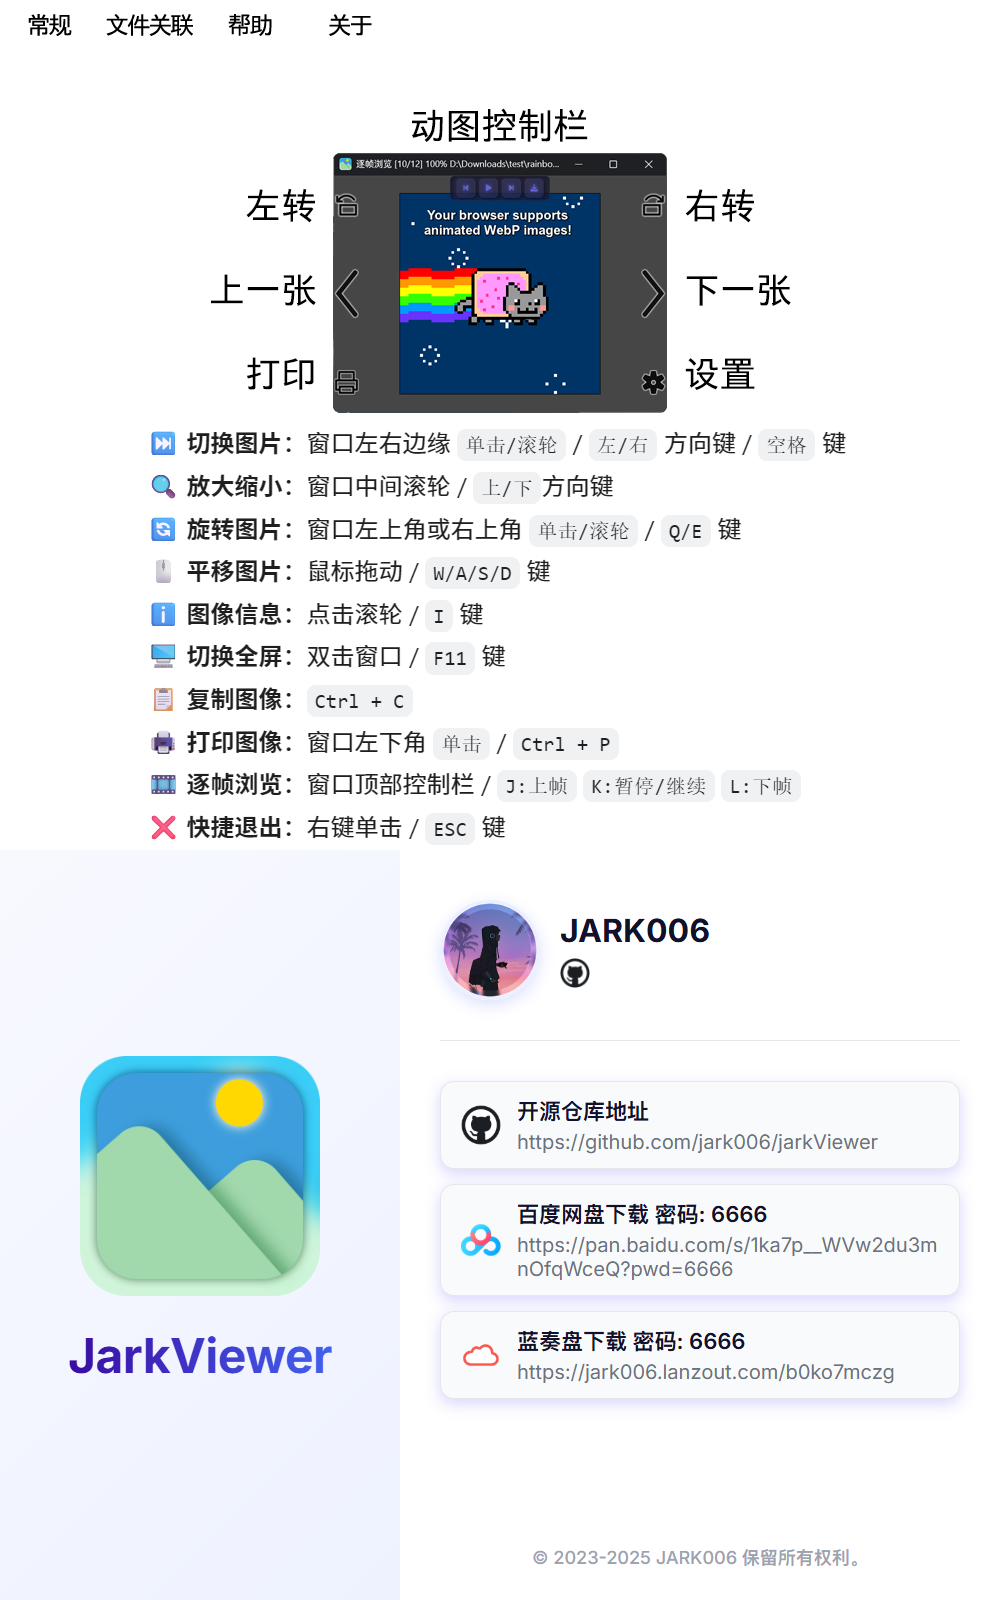
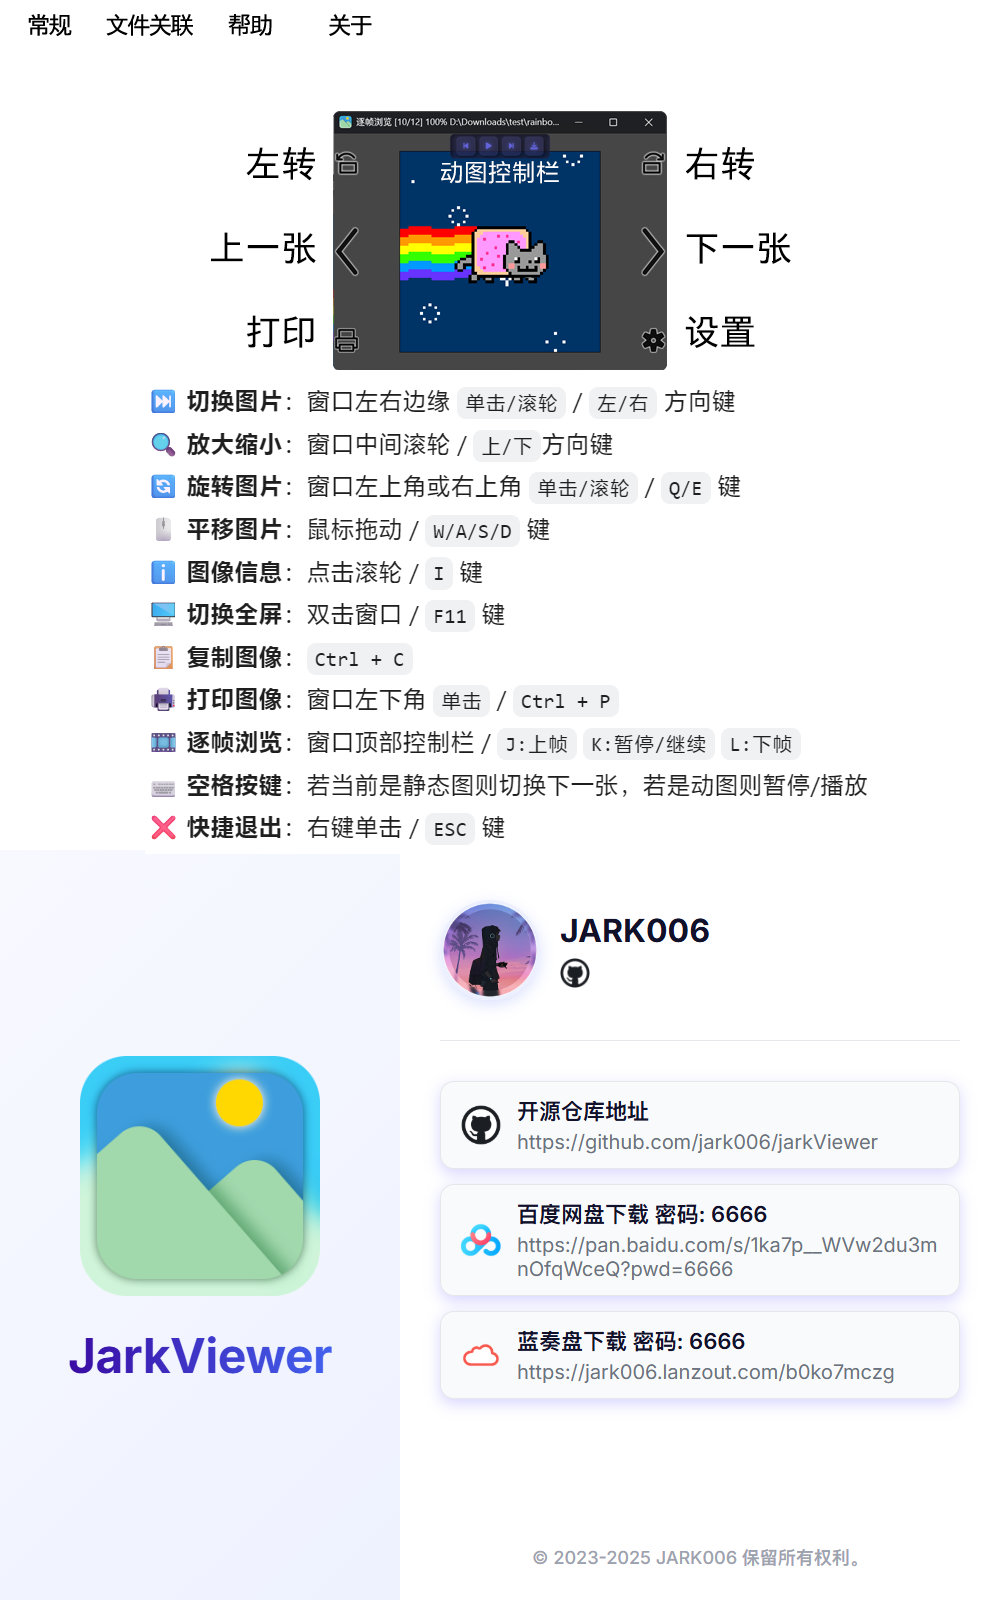
更新深浅主题资源

Changed region(s): [[0.155, 0.0625, 0.868, 0.5312], [0.775, 0.25, 0.837, 0.2812], [0.217, 0.1562, 0.248, 0.1875]]

diff --git a/jarkViewer/src/jarkViewer.cpp b/jarkViewer/src/jarkViewer.cpp
@@ -105,7 +105,9 @@ struct CurImageParameter {
             zoomCur = zoomTarget;
 
             zoomList = std::vector<int64_t>(ZOOM_LIST.begin(), ZOOM_LIST.end());
-            if (!std::ranges::binary_search(ZOOM_LIST, zoomFitWindow) || zoomFitWindow < ZOOM_LIST.front() || zoomFitWindow > ZOOM_LIST.back())
+            if (!std::ranges::binary_search(ZOOM_LIST, zoomFitWindow) || 
+                zoomFitWindow < ZOOM_LIST.front() || 
+                zoomFitWindow > ZOOM_LIST.back())
                 zoomList.push_back(zoomFitWindow);
             std::sort(zoomList.begin(), zoomList.end());
             auto it = std::find(zoomList.begin(), zoomList.end(), zoomTarget);
@@ -133,7 +135,9 @@ struct CurImageParameter {
             std::min(winWidth * ZOOM_BASE / height, winHeight * ZOOM_BASE / width);
 
         zoomList = std::vector<int64_t>(ZOOM_LIST.begin(), ZOOM_LIST.end());
-        if (!std::ranges::binary_search(ZOOM_LIST, zoomFitWindow) || zoomFitWindow < ZOOM_LIST.front() || zoomFitWindow > ZOOM_LIST.back())
+        if (!std::ranges::binary_search(ZOOM_LIST, zoomFitWindow) ||
+            zoomFitWindow < ZOOM_LIST.front() ||
+            zoomFitWindow > ZOOM_LIST.back())
             zoomList.push_back(zoomFitWindow);
         else {
             if (zoomIndex >= zoomList.size())
@@ -239,7 +243,9 @@ public:
 
         jarkUtils::setWindowIcon(m_hWnd, IDI_JARKVIEWER);
 
-        GlobalVar::theme = GlobalVar::settingParameter.UI_Mode == 0 ? (GlobalVar::isSystemDarkMode ? deepTheme : lightTheme) : (GlobalVar::settingParameter.UI_Mode == 1 ? lightTheme : deepTheme);
+        GlobalVar::theme = GlobalVar::settingParameter.UI_Mode == 0 ? 
+            (GlobalVar::isSystemDarkMode ? deepTheme : lightTheme) : 
+            (GlobalVar::settingParameter.UI_Mode == 1 ? lightTheme : deepTheme);
 
         return S_OK;
     }
@@ -664,7 +670,8 @@ public:
             }break;
 
             case 'W': {
-                const int newTargetYMax = ((curPar.rotation == 0 or curPar.rotation == 2) ? curPar.height : curPar.width) * curPar.zoomTarget / 2 / curPar.ZOOM_BASE;
+                const int newTargetYMax = ((curPar.rotation == 0 or curPar.rotation == 2) ? 
+                    curPar.height : curPar.width) * curPar.zoomTarget / 2 / curPar.ZOOM_BASE;
                 int newTargetY = curPar.slideTarget.y + ((winHeight + winWidth) / 16);
                 newTargetY = std::clamp(newTargetY, -newTargetYMax, newTargetYMax);
                 curPar.slideTarget.y = newTargetY;
@@ -672,7 +679,8 @@ public:
             }break;
 
             case 'S': {
-                const int newTargetYMax = ((curPar.rotation == 0 or curPar.rotation == 2) ? curPar.height : curPar.width) * curPar.zoomTarget / 2 / curPar.ZOOM_BASE;
+                const int newTargetYMax = ((curPar.rotation == 0 or curPar.rotation == 2) ? 
+                    curPar.height : curPar.width) * curPar.zoomTarget / 2 / curPar.ZOOM_BASE;
                 int newTargetY = curPar.slideTarget.y - ((winHeight + winWidth) / 16);
                 newTargetY = std::clamp(newTargetY, -newTargetYMax, newTargetYMax);
                 curPar.slideTarget.y = newTargetY;
@@ -680,7 +688,8 @@ public:
             }break;
 
             case 'A': {
-                const int newTargetXMax = ((curPar.rotation == 0 || curPar.rotation == 2) ? curPar.width : curPar.height) * curPar.zoomTarget / 2 / curPar.ZOOM_BASE;
+                const int newTargetXMax = ((curPar.rotation == 0 || curPar.rotation == 2) ? 
+                    curPar.width : curPar.height) * curPar.zoomTarget / 2 / curPar.ZOOM_BASE;
                 int newTargetX = curPar.slideTarget.x + ((winHeight + winWidth) / 16);
                 newTargetX = std::clamp(newTargetX, -newTargetXMax, newTargetXMax);
                 curPar.slideTarget.x = newTargetX;
@@ -688,7 +697,8 @@ public:
             }break;
 
             case 'D': {
-                const int newTargetXMax = ((curPar.rotation == 0 || curPar.rotation == 2) ? curPar.width : curPar.height) * curPar.zoomTarget / 2 / curPar.ZOOM_BASE;
+                const int newTargetXMax = ((curPar.rotation == 0 || curPar.rotation == 2) ? 
+                    curPar.width : curPar.height) * curPar.zoomTarget / 2 / curPar.ZOOM_BASE;
                 int newTargetX = curPar.slideTarget.x - ((winHeight + winWidth) / 16);
                 newTargetX = std::clamp(newTargetX, -newTargetXMax, newTargetXMax);
                 curPar.slideTarget.x = newTargetX;
@@ -822,7 +832,8 @@ public:
 
         if (srcPx[3] == 255) return srcPx.u32;
 
-        intUnion bgPx = ((mainX / BG_GRID_WIDTH + mainY / BG_GRID_WIDTH) & 1) ? GlobalVar::theme.BLACK_GRID_COLOR : GlobalVar::theme.WHITE_GRID_COLOR;
+        intUnion bgPx = ((mainX / BG_GRID_WIDTH + mainY / BG_GRID_WIDTH) & 1) ? 
+            GlobalVar::theme.BLACK_GRID_COLOR : GlobalVar::theme.WHITE_GRID_COLOR;
         if (srcPx[3] == 0) return bgPx.u32;
 
         const int alpha = srcPx[3];
@@ -886,11 +897,14 @@ public:
         // 使用 xxx.ptr() 需注意 xxx.step1() 必须等于 xxx.cols*4
         memset(canvas.ptr(), GlobalVar::theme.BG_COLOR, 4ULL * canvasH * canvasW);
 
-        if (((srcH == 600 and srcW == 800) or (srcH == 800 and srcW == 600)) and *((uint32_t*)srcImg.ptr()) == 0xFF464646) {
+        if (((srcH == 600 and srcW == 800) or (srcH == 800 and srcW == 600)) and 
+            (*((uint32_t*)srcImg.ptr()) == 0xFF464646) or(*((uint32_t*)srcImg.ptr()) == 0xFFEEEEEE)) {
             // 内置的用于提示的图像
         }
         else { // 普通图像  画边框
-            const uint32_t lineColor = GlobalVar::settingParameter.UI_Mode == 0 ? (GlobalVar::isSystemDarkMode ? 0xFF888888 : 0xFF000000) : (GlobalVar::settingParameter.UI_Mode == 1 ? 0xFF000000 : 0xFF888888);
+            const uint32_t lineColor = GlobalVar::settingParameter.UI_Mode == 0 ? 
+                (GlobalVar::isSystemDarkMode ? 0xFF888888 : 0xFF000000) : 
+                (GlobalVar::settingParameter.UI_Mode == 1 ? 0xFF000000 : 0xFF888888);
             if (0 < xStart and xStart < canvasW) {
                 const int yMax = std::min(yEnd + 1, canvasH);
                 for (int y = std::max(yStart - 1, 0); y < yMax; y++) {
@@ -1101,7 +1115,8 @@ public:
 
         cv::Mat rotatedImage;
         cv::warpAffine(image, rotatedImage, rotationMatrix, image.size(),
-            cv::INTER_LINEAR, cv::BORDER_CONSTANT, cv::Scalar(GlobalVar::theme.BG_COLOR, GlobalVar::theme.BG_COLOR, GlobalVar::theme.BG_COLOR));
+            cv::INTER_LINEAR, cv::BORDER_CONSTANT, 
+            cv::Scalar(GlobalVar::theme.BG_COLOR, GlobalVar::theme.BG_COLOR, GlobalVar::theme.BG_COLOR));
 
         return rotatedImage;
     }
@@ -1114,7 +1129,8 @@ public:
         int maxEdge = (int)std::ceil(std::sqrt(winWidth * winWidth + winHeight * winHeight));
         if (maxEdge < 2)
             return;
-        auto tmpCanvas = cv::Mat(maxEdge, maxEdge, CV_8UC4, cv::Vec4b(GlobalVar::theme.BG_COLOR, GlobalVar::theme.BG_COLOR, GlobalVar::theme.BG_COLOR));
+        auto tmpCanvas = cv::Mat(maxEdge, maxEdge, CV_8UC4, 
+            cv::Vec4b(GlobalVar::theme.BG_COLOR, GlobalVar::theme.BG_COLOR, GlobalVar::theme.BG_COLOR));
 
         cv::Mat srcImg;
         if (curPar.imageAssetPtr->format == ImageFormat::None || curPar.imageAssetPtr->format == ImageFormat::Still)
@@ -1145,7 +1161,8 @@ public:
         int maxEdge = (int)std::ceil(std::sqrt(winWidth * winWidth + winHeight * winHeight));
         if (maxEdge < 2)
             return;
-        auto tmpCanvas = cv::Mat(maxEdge, maxEdge, CV_8UC4, cv::Vec4b(GlobalVar::theme.BG_COLOR, GlobalVar::theme.BG_COLOR, GlobalVar::theme.BG_COLOR));
+        auto tmpCanvas = cv::Mat(maxEdge, maxEdge, CV_8UC4, 
+            cv::Vec4b(GlobalVar::theme.BG_COLOR, GlobalVar::theme.BG_COLOR, GlobalVar::theme.BG_COLOR));
 
         cv::Mat srcImg;
         if (curPar.imageAssetPtr->format == ImageFormat::None || curPar.imageAssetPtr->format == ImageFormat::Still)
@@ -1389,7 +1406,14 @@ public:
             const int padding = 10;
             const int areaWidth = (canvas.cols - 2 * padding) / 4;
             cv::Rect rect{ padding, padding, std::max(areaWidth, 400), canvas.rows - 2 * padding };
-            textDrawer.putAlignLeft(canvas, rect, curPar.imageAssetPtr->exifInfo.c_str(), { 255, 255, 255, 255 }); // 长文本 8ms
+
+            const cv::Vec4b colorBlack{ 0, 0, 0, 255 };
+            const cv::Vec4b colorWhite{ 255, 255, 255, 255 };
+            const cv::Vec4b color = GlobalVar::settingParameter.UI_Mode == 0 ? 
+                (GlobalVar::isSystemDarkMode ? colorWhite : colorBlack) :
+                (GlobalVar::settingParameter.UI_Mode == 1 ? colorBlack : colorWhite);
+
+            textDrawer.putAlignLeft(canvas, rect, curPar.imageAssetPtr->exifInfo.c_str(), color); // 长文本 8ms
         }
     }
 
@@ -1628,10 +1652,12 @@ public:
             int newTargetX = curPar.slideTarget.x + operateAction.x;
             int newTargetY = curPar.slideTarget.y + operateAction.y;
 
-            const int newTargetXMax = ((curPar.rotation == 0 || curPar.rotation == 2) ? curPar.width : curPar.height) * curPar.zoomTarget / 2 / curPar.ZOOM_BASE;
+            const int newTargetXMax = ((curPar.rotation == 0 || curPar.rotation == 2) ? 
+                curPar.width : curPar.height) * curPar.zoomTarget / 2 / curPar.ZOOM_BASE;
             newTargetX = std::clamp(newTargetX, -newTargetXMax, newTargetXMax);
 
-            const int newTargetYMax = ((curPar.rotation == 0 or curPar.rotation == 2) ? curPar.height : curPar.width) * curPar.zoomTarget / 2 / curPar.ZOOM_BASE;
+            const int newTargetYMax = ((curPar.rotation == 0 or curPar.rotation == 2) ? 
+                curPar.height : curPar.width) * curPar.zoomTarget / 2 / curPar.ZOOM_BASE;
             newTargetY = std::clamp(newTargetY, -newTargetYMax, newTargetYMax);
 
             curPar.slideTarget.x = newTargetX;

diff --git a/jarkViewer/include/ImageDatabase.h b/jarkViewer/include/ImageDatabase.h
@@ -153,25 +153,33 @@ public:
 
     ImageDatabase() = default;
 
-    cv::Mat errorTipsMat, homeMat;
+    cv::Mat errorTipsMatDeep, errorTipsMatLight, homeMatDeep, homeMatLight;
 
-    cv::Mat& getErrorTipsMat() {
-        if (errorTipsMat.empty()) {
+    cv::Mat getErrorTipsMat() {
+        if (errorTipsMatDeep.empty()) {
             auto rc = jarkUtils::GetResource(IDB_PNG_TIPS, L"PNG");
             cv::Mat imgData(1, (int)rc.size, CV_8UC1, (uint8_t*)rc.ptr);
-            errorTipsMat = cv::imdecode(imgData, cv::IMREAD_UNCHANGED);
+            auto errorTipsMat = cv::imdecode(imgData, cv::IMREAD_UNCHANGED);
+            errorTipsMatLight = errorTipsMat({ 0, 0, 800, 600 }).clone();
+            errorTipsMatDeep = errorTipsMat({ 0, 600, 800, 600 }).clone();
         }
-        return errorTipsMat;
+        return GlobalVar::settingParameter.UI_Mode == 0 ?
+            (GlobalVar::isSystemDarkMode ? errorTipsMatDeep : errorTipsMatLight) :
+            (GlobalVar::settingParameter.UI_Mode == 1 ? errorTipsMatLight : errorTipsMatDeep);
     }
 
 
-    cv::Mat& getHomeMat() {
-        if (homeMat.empty()) {
+    cv::Mat getHomeMat() {
+        if (homeMatDeep.empty()) {
             auto rc = jarkUtils::GetResource(IDB_PNG_HOME, L"PNG");
             cv::Mat imgData(1, (int)rc.size, CV_8UC1, (uint8_t*)rc.ptr);
-            homeMat = cv::imdecode(imgData, cv::IMREAD_UNCHANGED);
+            auto homeMat = cv::imdecode(imgData, cv::IMREAD_UNCHANGED);
+            homeMatLight = homeMat({ 0, 0, 800, 600 }).clone();
+            homeMatDeep = homeMat({ 0, 600, 800, 600 }).clone();
         }
-        return homeMat;
+        return GlobalVar::settingParameter.UI_Mode == 0 ?
+            (GlobalVar::isSystemDarkMode ? homeMatDeep : homeMatLight) :
+            (GlobalVar::settingParameter.UI_Mode == 1 ? homeMatLight : homeMatDeep);
     }
 
 

diff --git a/README.md b/README.md
@@ -49,7 +49,7 @@
 
 - **静态**：`apng avif avifs bmp bpg dib exr gif hdr heic heif ico icon jfif jp2 jpe jpeg jpg jxl jxr livp pbm pfm pgm pic png pnm ppm psd pxm qoi ras sr svg tga tif tiff webp wp2`
 - **动态**：`gif webp png apng jxl bpg`
-- **实况**：`livp(Apple IOS) jpg/heic/heif(Android MicroVideo/MotionPhoto)`
+- **实况**：`livp(IOS LivePhoto) jpg/heic/heif(Android MicroVideo/MotionPhoto)`
 - **RAW**：`3fr ari arw bay cap cr2 cr3 crw dcr dcs dng drf eip erf fff gpr iiq k25 kdc mdc mef mos mrw nef nrw orf pef ptx r3d raf raw rw2 rwl rwz sr2 srf srw x3f`
 
 ---
